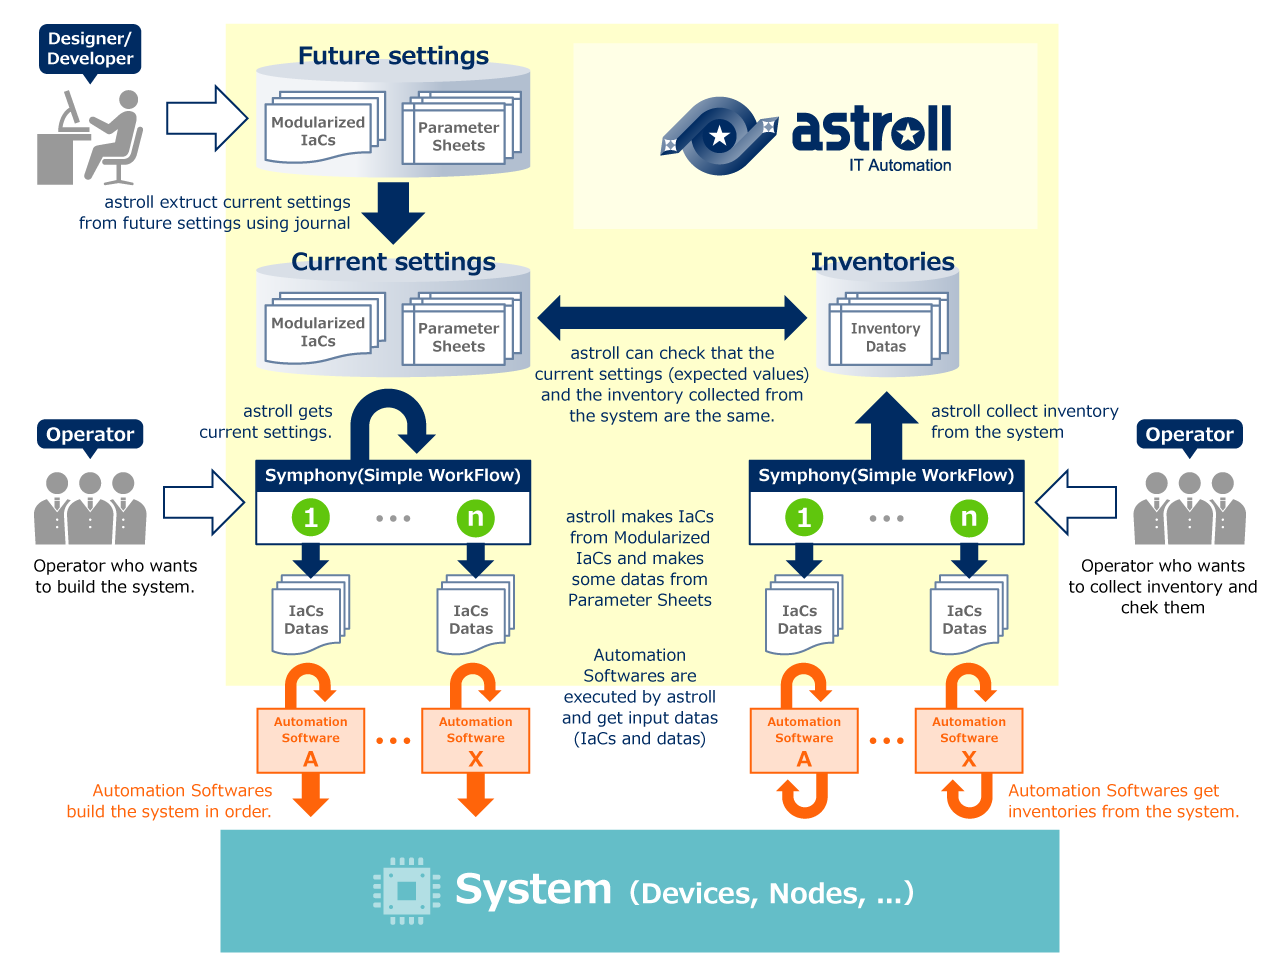
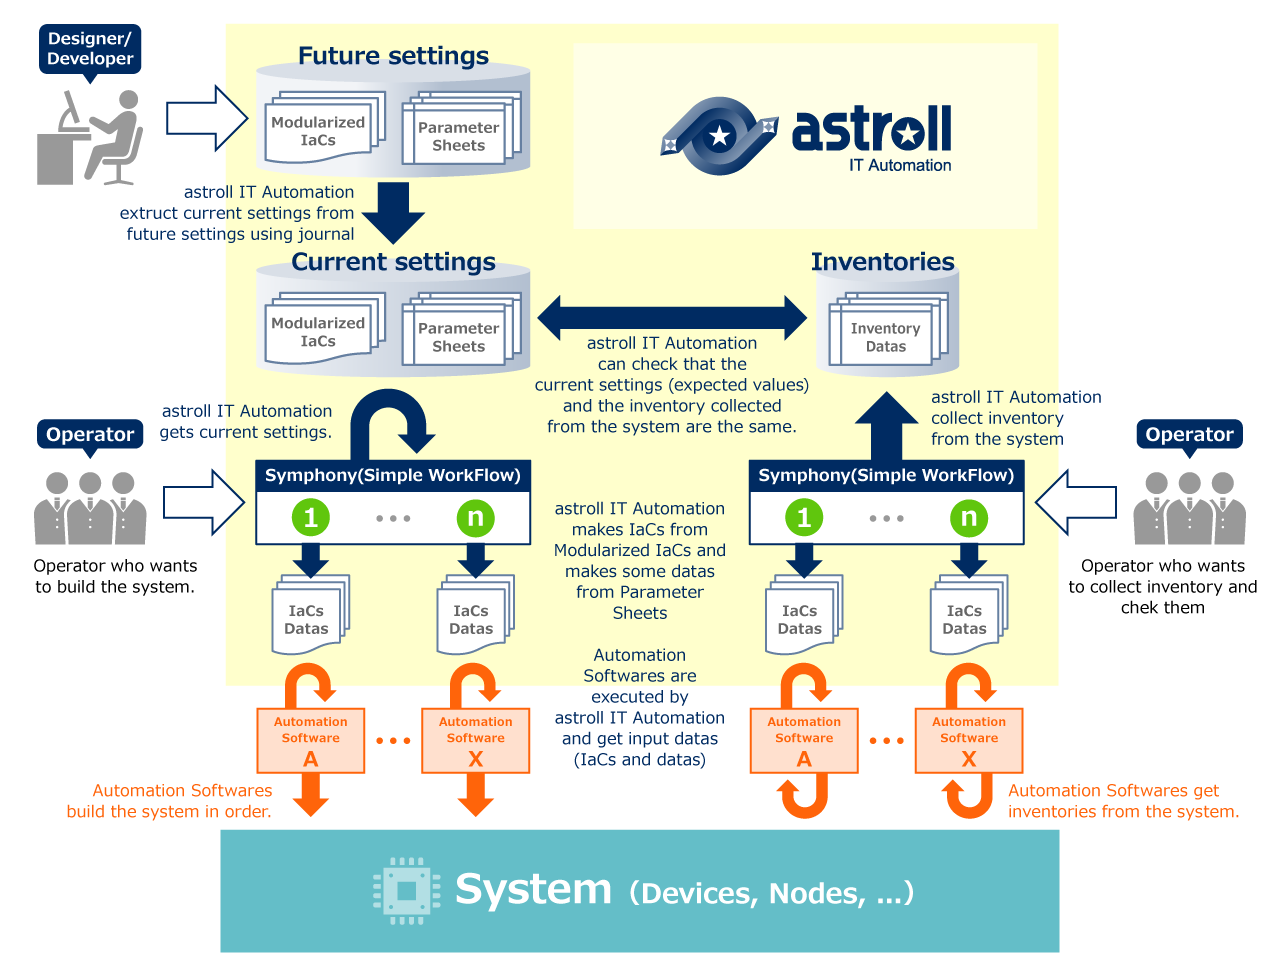
astroll > astroll IT Automation.

diff --git a/index_ja.html b/index_ja.html
@@ -21,7 +21,7 @@
 <!-- InstanceParam name="pageTitle" type="text" value="index" -->
 <meta http-equiv="content-language" content="ja">
 <!-- InstanceBeginEditable name="doctitle" -->
-<title>astroll - IT Automation</title>
+<title>astroll IT Automation</title>
 <!-- InstanceEndEditable -->
 <!-- Stylesheet and JavaScript -->
 <link rel="stylesheet" type="text/css" href="./asset/css/common.css">
@@ -140,27 +140,27 @@
 
 <section id="why">
 <div class="sectionInner">
-<h2><em>astroll IT Automation</em>はシステム構築を取り巻く3つの問題を解決します。</h2>
+<h2><em>astroll IT Automation</em> はシステム構築を取り巻く3つの問題を解決します。</h2>
 <ul>
 <li>
 <dl>
 <dt><i class="fas fa-times-circle"></i>データ多重管理による<br>設計ミス</dt>
 <dd class="text"><i class="fas fa-check-circle"></i>データを一括で管理、二重管理による設計ミスを防ぎます。</dd>
-<dd class="image"><img src="asset/img/home/astroll_image01.jpg" alt="astroll IT Automation画面1"></dd>
+<dd class="image"><img src="asset/img/home/astroll_image01.jpg" alt="astroll IT Automation 画面1"></dd>
 </dl>
 </li>
 <li>
 <dl>
 <dt><i class="fas fa-times-circle"></i>複雑な人手作業による<br>オペレーションミス</dt>
 <dd class="text"><i class="fas fa-check-circle"></i>構築作業は自動実行、実行状況をわかりやすく表示します。</dd>
-<dd class="image"><img src="asset/img/home/astroll_image02.jpg" alt="astroll IT Automation画面2"></dd>
+<dd class="image"><img src="asset/img/home/astroll_image02.jpg" alt="astroll IT Automation 画面2"></dd>
 </dl>
 </li>
 <li>
 <dl>
 <dt><i class="fas fa-times-circle"></i>作業記録不足による<br>障害対応遅延</dt>
 <dd class="text"><i class="fas fa-check-circle"></i>作業記録をしっかりと管理、作業の成否をレポートします。</dd>
-<dd class="image"><img src="asset/img/home/astroll_image03.jpg" alt="astroll IT Automation画面3"></dd>
+<dd class="image"><img src="asset/img/home/astroll_image03.jpg" alt="astroll IT Automation 画面3"></dd>
 </dl>
 </li>
 </ul>
@@ -172,7 +172,7 @@
 
 <section id="features">
 <div class="sectionInner">
-<h2><em>astroll IT Automation</em>の主な特徴です。</h2>
+<h2><em>astroll IT Automation</em> の主な特徴です。</h2>
 <ul>
 <li>
 <dl>
@@ -217,7 +217,7 @@
 
 <section id="documentation">
 <div class="sectionInner">
-<h2><em>astroll IT Automation</em>のことをもっと知りたいですか？</h2>
+<h2><em>astroll IT Automation</em> のことをもっと知りたいですか？</h2>
 <div class="rightImage"><img src="./asset/img/home/documents_image.jpg" alt="ドキュメント"></div>
 <p>各種ドキュメントをご用意しています。</p>
 <p class="linkArea"><a href="documents_ja.html" class="move"><span>ドキュメントの確認 <i class="fas fa-angle-right"></i></span></a></p>

diff --git a/overview.html b/overview.html
@@ -137,14 +137,14 @@ Overview</h1>
 
 <section id="systemLifeCycle">
 <div class="sectionInner">
-<h2>System life cycle that is realized using astroll IT Automation</h2>
+<h2>System life cycle that is realized using <em>astroll IT Automation</em></h2>
 <p><span class="exImage"><img src="asset/img/en_system.png" alt="System life cycle support"></span></p>
 </div>
 </section>
 
 <section id="astrollOverview">
 <div class="sectionInner">
-<h2>astroll IT Automation Overview</h2>
+<h2><em>astroll IT Automation</em> Overview</h2>
 
 <p><span class="exImage"><img src="asset/img/en_system_overview.png" alt="Overview"></span></p>
 
@@ -155,7 +155,7 @@ Overview</h1>
 <p>Using astroll IT Automation, you can centrally manage the parameters to be input to the system.<br>
 You can manage them using astroll IT Automation's web user interface, or Spreadsheet (Excel), or Machine interface (Rest API).</p>
 	
-<h3>Improved reusability by IaCs that are modularized and managed by astroll IT Automation.</h3>
+<h3>Improved reusability by IaCs that are modularized and managed by <em>astroll IT Automation</em>.</h3>
 
 <div class="rightImage image25"><img src="asset/img/en_system_module.png" alt="Module"></div>
 
@@ -163,14 +163,14 @@ You can manage them using astroll IT Automation's web user interface, or Spreads
 When you use astroll IT Automation to build a system automatically, astroll IT Automation joins together the modularized IaCs to create a workflow, and combines that workflow with the parameters to execute.<br>
 Such a mechanism allows you to cut out generic IaCs, modularize it, and reuse it in various workflows.</p>
 
-<h3>Execution management of automation softwares by astroll IT Automation.</h3>
+<h3>Execution management of automation softwares by <em>astroll IT Automation</em>.</h3>
 
 <div class="leftImage image25"><img src="asset/img/system_run.png" alt="Workflow"></div>
 
 <p>IaCs that make up the workflow is executed by appropriate automation softwares such as ANSIBLE.<br>
 You can choose which automation software to use based on the system integration you want to execute and the features of automation software.</p>
 	
-<h3>Real-time monitoring of execution status by astroll IT Automation.</h3>
+<h3>Real-time monitoring of execution status by <em>astroll IT Automation</em>.</h3>
 
 <div class="rightImage"><img src="asset/img/en_system_realtime.png" alt="Real-time monitoring"></div>
 

diff --git a/asset/css/common.css b/asset/css/common.css
@@ -822,7 +822,7 @@ clear: both;
 margin: 80px 0 24px; padding: 0 8px 8px;
 border-bottom: 1px solid #8095B0;
 line-height: 1.3;
-font-size: 32px;
+font-size: 30px;
 font-weight: bold;
 color: #002B62;
 }
@@ -869,6 +869,8 @@ color: #333;
 #articleBody h2 em,
 #articleBody h3 em,
 #articleBody h4 em {
+font-size: 110%;
+display: inline-block;
 font-family: 'Roboto', sans-serif;
 font-weight: 900;
 font-style: normal;
@@ -1275,10 +1277,10 @@ animation: astrollGearAnimation 30s linear infinite;
 padding: 96px 16px;
 }
 #website.index #articleBody h2 {
-margin-bottom: 64px; padding: 16px;
+margin-bottom: 64px; padding: 16px 32px;
 background-color: rgba( 255, 255, 255, 0.5 );
 border: 1px solid #8095B0;
-font-size: 28px;
+font-size: 26px;
 font-weight: bold;
 
 color: #002B62;
